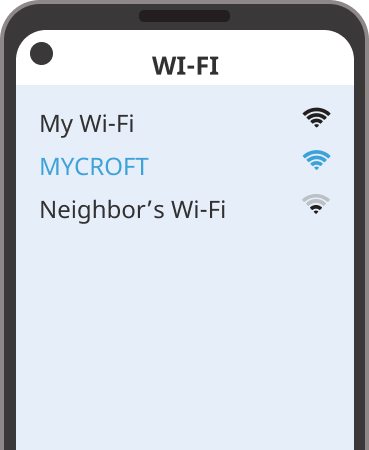
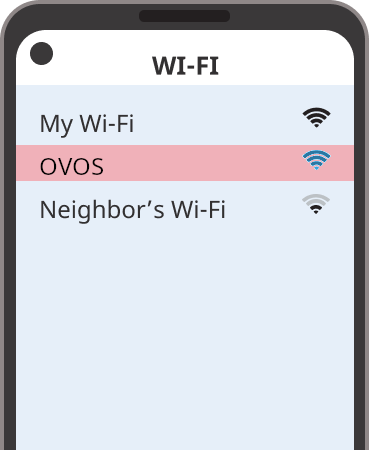
update ui design to match theme

Changed region(s): [[0.0298, 0.3111, 0.9837, 0.4044]]

diff --git a/ui/prompt.qml b/ui/prompt.qml
@@ -19,60 +19,75 @@ import QtQuick.Layouts 1.4
 import QtQuick 2.4
 import QtQuick.Controls 2.0
 import org.kde.kirigami 2.4 as Kirigami
-
 import Mycroft 1.0 as Mycroft
 
-Mycroft.ProportionalDelegate {
+Mycroft.Delegate {
     id: root
     property var spacingUnit: 30
     property var phone: sessionData.phone_image
     property var prompt: sessionData.prompt
     property var highlight: sessionData.highlight
     property var color: sessionData.color
-
-    Row {
-        spacing: spacingUnit
-        Image {
-            id: img
-            source: Qt.resolvedUrl(phone)
-            Layout.fillHeight: true
-            height: root.height * 0.8
-            fillMode: Image.PreserveAspectFit
-            verticalAlignment: Image.AlignBottom
-            anchors.bottom: parent.bottom
-        }
-        ColumnLayout {
-            Kirigami.Heading {
-                id: sentence
+    property bool horizontalMode: root.width > root.height ? 1 : 0
+    
+    leftPadding: 0
+    rightPadding: 0
+    topPadding: 0
+    bottomPadding: 0
+    
+    Rectangle {
+        anchors.fill: parent
+        color: "#000000"
+    
+        GridLayout {
+            anchors.fill: parent
+            anchors.margins: Kirigami.Units.largeSpacing
+            columns: horizontalMode ? 2 : 1
+            
+            ColumnLayout {
                 Layout.fillWidth: true
-                Layout.alignment: Qt.AlignLeft
-                Layout.leftMargin: spacingUnit
-                Layout.topMargin: 80
-                horizontalAlignment: Text.AlignHLeft
-                wrapMode: Text.WordWrap
-                elide: Text.ElideRight
-                font.family: "Noto Sans"
-                font.bold: true
-                font.weight: Font.Bold
-                font.pixelSize: 38
-                visible: !content.visible
-                text: prompt
+                Layout.fillHeight: true
+                
+                Kirigami.Heading {
+                    id: sentence
+                    Layout.fillWidth: true
+                    Layout.alignment: horizontalMode ? Qt.AlignLeft : Qt.AlignHCenter | Qt.AlignVCenter
+                    Layout.leftMargin: horizontalMode ? spacingUnit : 0
+                    horizontalAlignment: horizontalMode ? Text.AlignLeft : Text.AlignHCenter
+                    verticalAlignment: horizontalMode ? Text.AlignVCenter : Text.AlignTop
+                    wrapMode: Text.WordWrap
+                    elide: Text.ElideRight
+                    font.family: "Noto Sans"
+                    font.bold: true
+                    font.weight: Font.Bold
+                    font.pixelSize: horizontalMode ? root.width * 0.065 : root.height * 0.075
+                    text: prompt
+                }
+                Kirigami.Heading {
+                    id: url
+                    Layout.fillWidth: true
+                    Layout.leftMargin: horizontalMode ? spacingUnit : 0
+                    Layout.alignment: horizontalMode ? Qt.AlignLeft : Qt.AlignHCenter | Qt.AlignTop
+                    horizontalAlignment: horizontalMode ? Text.AlignLeft : Text.AlignHCenter
+                    verticalAlignment: horizontalMode ? Text.AlignVCenter : Text.AlignTop
+                    wrapMode: Text.WordWrap
+                    elide: Text.ElideRight
+                    font.family: "Noto Sans"
+                    font.bold: true
+                    font.weight: Font.Bold
+                    font.pixelSize: horizontalMode ? root.width * 0.065 : root.height * 0.075
+                    color: root.color
+                    text: highlight
+                }
             }
-            Kirigami.Heading {
-                id: url
-                Layout.fillWidth: true
-                Layout.alignment: Qt.AlignLeft
-                Layout.leftMargin: spacingUnit
-                horizontalAlignment: Text.AlignHLeft
-                wrapMode: Text.WordWrap
-                elide: Text.ElideRight
-                font.family: "Noto Sans"
-                font.bold: true
-                font.weight: Font.Bold
-                font.pixelSize: 36
-                visible: !content.visible
-                color: root.color
-                text: highlight
+            
+            Image {
+                id: img
+                source: Qt.resolvedUrl(phone)
+                Layout.preferredWidth: horizontalMode ? parent.width / 2 : parent.width
+                Layout.preferredHeight: horizontalMode ? parent.height * 0.9 : parent.height / 2
+                Layout.alignment: Qt.AlignBottom
+                fillMode: Image.PreserveAspectFit
             }
         }
     }

diff --git a/__init__.py b/__init__.py
@@ -221,7 +221,7 @@ class WifiConnect(MycroftSkill):
         """Provide instructions for setting up wifi."""
         self.gui.remove_page("status.qml")
         self.gui["phone_image"] = "1_phone_connect-to-ap.png"
-        self.gui["prompt"] = "Connect to the \nWifi network"
+        self.gui["prompt"] = "Connect to the Wi-Fi network"
         self.gui["highlight"] = self.ssid
         self.gui["color"] = self.settings["color"]
         self.gui.show_page("prompt.qml")
@@ -233,8 +233,8 @@ class WifiConnect(MycroftSkill):
         self.gui.remove_page("status.qml")
         self.gui.clear()
         self.gui["phone_image"] = "3_phone_choose-wifi.png"
-        self.gui["prompt"] = "Choose the \nWifi network to \nconnect your \ndevice"
-        self.gui["highlight"] = ""
+        self.gui["prompt"] = "Select local Wi-Fi network to connect"
+        self.gui["highlight"] = "OVOS Device"
         self.gui["color"] = self.settings["color"]
         self.gui.show_page("prompt.qml")
         # allow GUI to linger around for a bit, will block the wifi setup loop
